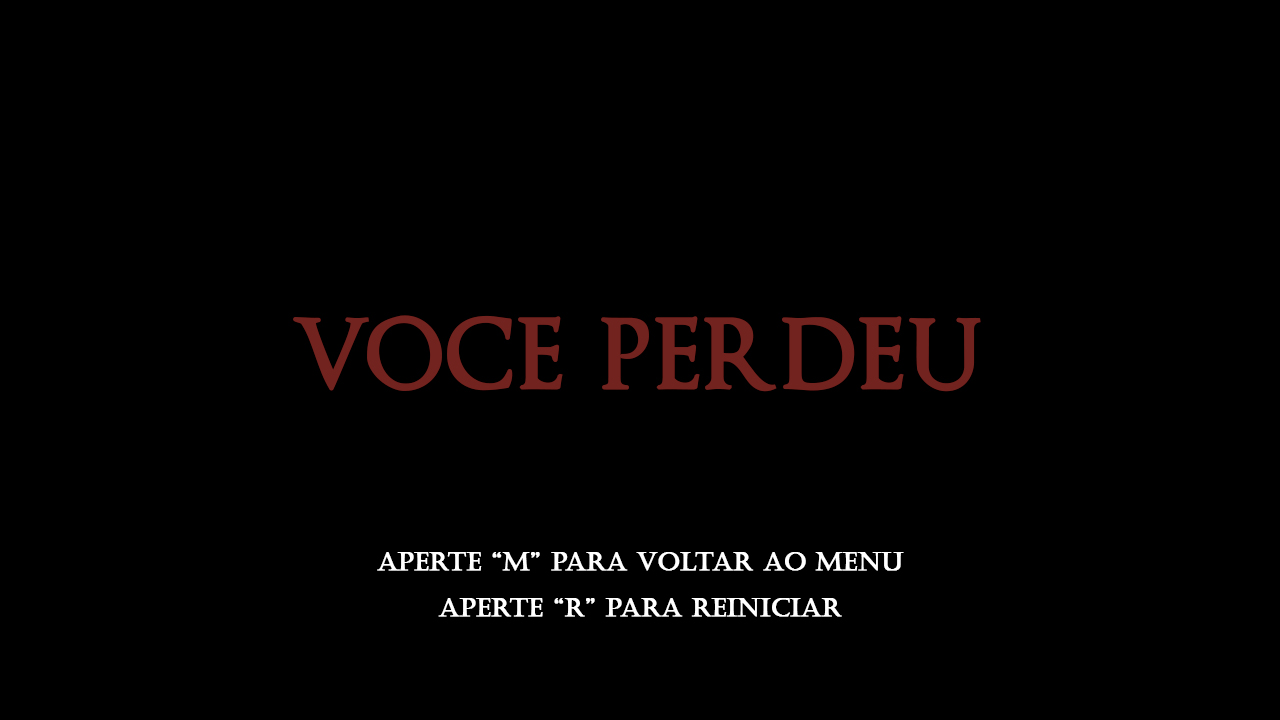
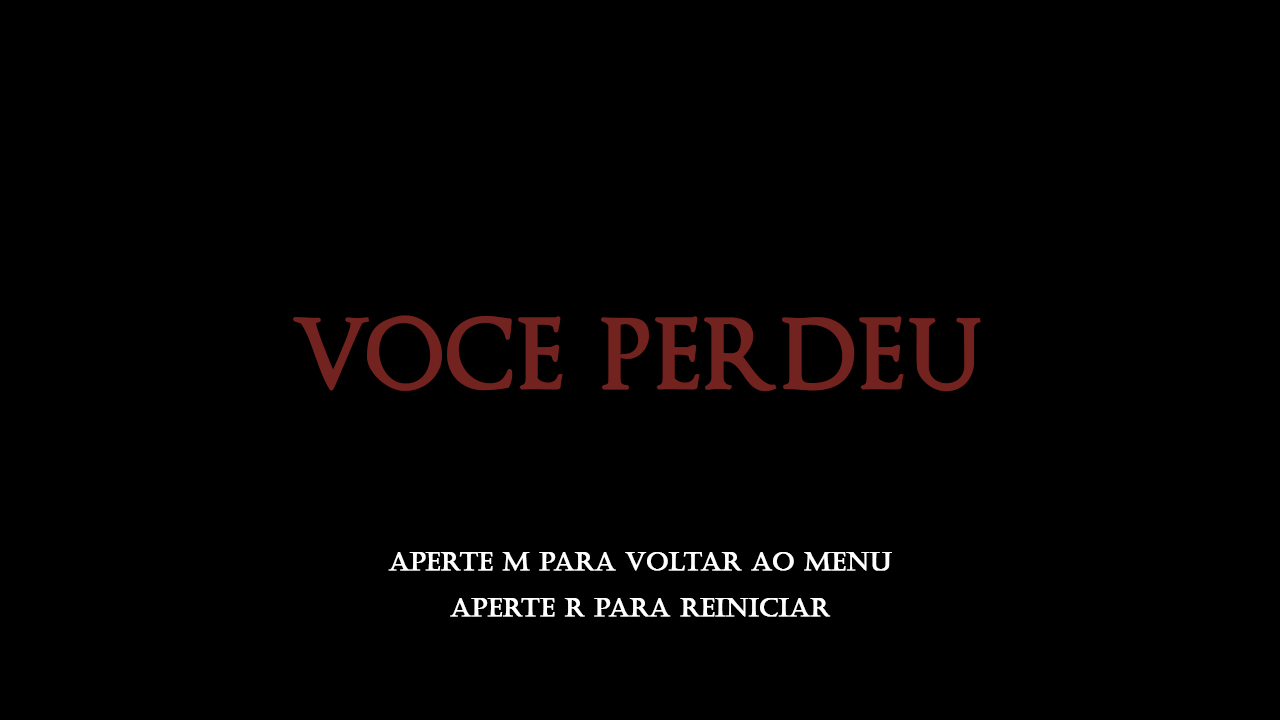
Add files via upload

Changed region(s): [[0.2812, 0.7639, 0.7188, 0.7944], [0.3438, 0.825, 0.6562, 0.8556]]

diff --git a/cenaExemplo1/src/cena/Cena.java b/cenaExemplo1/src/cena/Cena.java
@@ -13,8 +13,14 @@ public class Cena implements GLEventListener{
     private int toning = GL2.GL_SMOOTH;
     private float aspect;
     private TextRenderer textRenderer;
-    public int mode; // Menu
-    public int op = 0; // Menu
+    private Texture txtmenu; // Textura menu
+    private Texture txtcj; // Textura como jogar
+    private Texture txtgo; // Textura game over
+    private Texture txtf1; // Textura fase 1
+    private Texture txtf2; // Textura fase 2
+    public int mode;
+    private long tempoInicial;
+    public int op = 0;
     private float bolaX = 0;
     private float bolaY = 1f;
     private char direcaoX;
@@ -24,18 +30,16 @@ public class Cena implements GLEventListener{
     public int score = 0;
     public int vidas = 5;
     public boolean pause = false;
-    private Texture txtmenu;
-    private Texture txtcj;
-    private Texture txtgo;
-    private Texture txtf1;
+    private boolean textoVisivel = true;
 
     public void resetData() {
         bolaX = 0;
         bolaY = 1f;
         direcaoY = 'd';
         pause = false;
-        op = 0;
         moveBarra = 0;
+        op = 0;
+        velocidade = 0.02f;
         score = 0;
         vidas = 5;
     }
@@ -56,7 +60,7 @@ public class Cena implements GLEventListener{
                 break;
 
             case 1:
-                fundof1();
+                fundoF1();
                 fase1();
                 if (score == 40){
                     op = 2;
@@ -67,12 +71,10 @@ public class Cena implements GLEventListener{
                 break;
 
             case 2:
-                gl.glClearColor(0,0.3f,0.3f,1);
-                gl.glClear(GL2.GL_COLOR_BUFFER_BIT);
+                fundoF2();
                 fase1();
-                gl.glPushMatrix();
-                obstaculo();
-                gl.glPopMatrix();
+//                gl.glPushMatrix();
+//                gl.glPopMatrix();
                 velocidade += 0.00001f;
 
                 if (vidas < 1){
@@ -98,16 +100,18 @@ public class Cena implements GLEventListener{
     public void menu() {
         fundoMenu();
         gl.glPushMatrix();
-            desenhaTexto(gl, 500, 50, Color.WHITE, "Aperte S para INICIAR!");
+        if(textoVisivel) {
+            desenhaTextoSuave(gl, 470, 50, Color.WHITE, "Aperte S para INICIAR!");
+        }
         gl.glPopMatrix();
         gl.glEnd();
     }
 
     public boolean gameOver(){
         if (vidas <= 0) {
-            fundogo();
+            fundoGo();
             gl.glPushMatrix();
-                desenhaTexto(gl, 500, 225, Color.WHITE, "Almas coletadas " + score);
+                desenhaTexto(gl, 480, 225, Color.WHITE, "Almas coletadas " + score);
             gl.glPopMatrix();
             gl.glEnd();
         }
@@ -131,9 +135,9 @@ public class Cena implements GLEventListener{
             bolaMove();
         }
         else {
-            desenhaTextoEspecifico(gl, 450, 500, Color.WHITE , "JOGO PAUSADO", 50);
-            desenhaTexto(gl, 500, 350, Color.WHITE, "Aperte R para RECOMEÇAR!");
-            desenhaTexto(gl, 500, 300, Color.WHITE, "Aperte M para voltar ao MENU!");
+            desenhaTextoEspecifico(gl, 440, 500, Color.WHITE , "Jogo Pausado", 70);
+            desenhaTexto(gl, 460, 350, Color.WHITE, "Aperte R para RECOMEÇAR");
+            desenhaTexto(gl, 410, 300, Color.WHITE, "Aperte M para voltar ao MENU");
         }
 
         // Desenha barra de Vida
@@ -141,8 +145,7 @@ public class Cena implements GLEventListener{
         criaVida();
         gl.glPopMatrix();
 
-        desenhaTexto(gl, 1120, 670, Color.WHITE, "Almas " + score);
-        //desenhaTexto(gl, 20, 670, Color.WHITE, "Vidas:" + vidas);
+        desenhaTexto(gl, 1110, 670, Color.WHITE, "Almas " + score);
     }
 
     public void desenhaTexto(GL2 gl, int xPosicao, int yPosicao, Color cor, String frase){
@@ -153,20 +156,6 @@ public class Cena implements GLEventListener{
         textRenderer.draw(frase, xPosicao, yPosicao);
         textRenderer.endRendering();
         gl.glPolygonMode(GL2.GL_FRONT_AND_BACK, mode);
-    }
-
-    public void obstaculo(){
-        gl.glPushMatrix();
-        gl.glBegin(GL2.GL_TRIANGLES);
-            gl.glColor3f(1, 1, 1);
-            gl.glVertex2f(-0.7f,0.7f );
-            gl.glVertex2f(-0.8f,0.5f);
-            gl.glVertex2f(-0.6f,0.5f);
-            gl.glVertex2f(0.7f, 0.7f);
-            gl.glVertex2f(0.8f,0.5f);
-            gl.glVertex2f(0.6f, 0.5f);
-        gl.glEnd();
-        gl.glPopMatrix();
     }
 
     public void criaRetangulo(){
@@ -285,7 +274,7 @@ public class Cena implements GLEventListener{
         gl.glDisable(GL2.GL_TEXTURE_2D);
     }
 
-    public void fundof1() {
+    public void fundoF1() {
 
         gl.glEnable(GL2.GL_TEXTURE_2D);
         txtf1.enable(gl);
@@ -311,7 +300,33 @@ public class Cena implements GLEventListener{
         gl.glDisable(GL2.GL_TEXTURE_2D);
     }
 
-    public void fundogo() {
+    public void fundoF2() {
+
+        gl.glEnable(GL2.GL_TEXTURE_2D);
+        txtf2.enable(gl);
+        txtf2.bind(gl);
+
+        // Desenhar o objeto
+        gl.glBegin(GL2.GL_QUADS);
+        gl.glTexCoord2f(0.0f, 0.0f);
+        gl.glVertex2f(-1.0f, -1.0f);
+
+        gl.glTexCoord2f(1.0f, 0.0f);
+        gl.glVertex2f(1.0f, -1.0f);
+
+        gl.glTexCoord2f(1.0f, 1.0f);
+        gl.glVertex2f(1.0f, 1.0f);
+
+        gl.glTexCoord2f(0.0f, 1.0f);
+        gl.glVertex2f(-1.0f, 1.0f);
+        gl.glEnd();
+
+        // Desativar a textura
+        txtf2.disable(gl);
+        gl.glDisable(GL2.GL_TEXTURE_2D);
+    }
+
+    public void fundoGo() {
 
         gl.glEnable(GL2.GL_TEXTURE_2D);
         txtgo.enable(gl);
@@ -438,6 +453,19 @@ public class Cena implements GLEventListener{
         }
     }
 
+    private void desenhaTextoSuave(GL2 gl, int xPosicao, int yPosicao, Color cor, String frase) {
+        long tempoAtual = System.currentTimeMillis();
+        long tempoPassado = tempoAtual - tempoInicial;
+
+        float alpha = (float) Math.abs(Math.sin(tempoPassado / 1300.0)); // Ajuste a frequência aqui
+
+        // Configura a cor com a intensidade alpha
+        cor = new Color(cor.getRed(), cor.getGreen(), cor.getBlue(), (int) (alpha * 255));
+        desenhaTexto(gl, xPosicao, yPosicao, cor, frase);
+
+        gl.glColor4f(1f, 1f, 1f, 1f);
+    }
+
     @Override
     public void reshape(GLAutoDrawable drawable, int x, int y, int width , int height) {
         //obtem o contexto grafico Opengl
@@ -455,10 +483,10 @@ public class Cena implements GLEventListener{
         System.out.println("Reshape: " + width + ", " + height);
     }
 
-    // Funçao para mudar tamanho de TEXTO ESPECÍFICOS
+    // Função para mudar tamanho de um TEXTO ESPECÍFICOS
     public void desenhaTextoEspecifico(GL2 gl, int xPosicao, int yPosicao, Color cor, String frase, int tamanhoFonte) {
         gl.glPolygonMode(GL2.GL_FRONT_AND_BACK, GL2.GL_FILL);
-        TextRenderer textRendererEspecifico = new TextRenderer(new Font("Fixedsys Regular", Font.BOLD, tamanhoFonte));
+        TextRenderer textRendererEspecifico = new TextRenderer(new Font("OptimusPrinceps", Font.BOLD, tamanhoFonte));
         textRendererEspecifico.beginRendering(Renderer.screenWidth, Renderer.screenHeight);
         textRendererEspecifico.setColor(cor);
         textRendererEspecifico.draw(frase, xPosicao, yPosicao);
@@ -468,17 +496,20 @@ public class Cena implements GLEventListener{
 
     @Override
     public void init(GLAutoDrawable drawable) {
-        //dados iniciais da cena
+        // Dados iniciais da cena
         gl = drawable.getGL().getGL2();
         textRenderer = new TextRenderer(new Font("Castellar", Font.BOLD,25));
         randomBola();
-        GL2 gl = drawable.getGL().getGL2();
+
+        // temporizador de texto
+        tempoInicial = System.currentTimeMillis();
 
         // Carrega a textura usando a classe Textura
         txtmenu = Textura.loadTexture(gl, "src/texturas/pong_souls.jpg");
         txtcj = Textura.loadTexture(gl, "src/texturas/como_jogar.jpg");
         txtgo = Textura.loadTexture(gl, "src/texturas/gameover.jpg");
-        txtf1 = Textura.loadTexture(gl, "src/texturas/fundo_fase_1pb.jpg");
+        txtf1 = Textura.loadTexture(gl, "src/texturas/fundo_fase_1.jpg");
+        txtf2 = Textura.loadTexture(gl, "src/texturas/fundo_fase_2.jpg");
     }
 
     @Override
